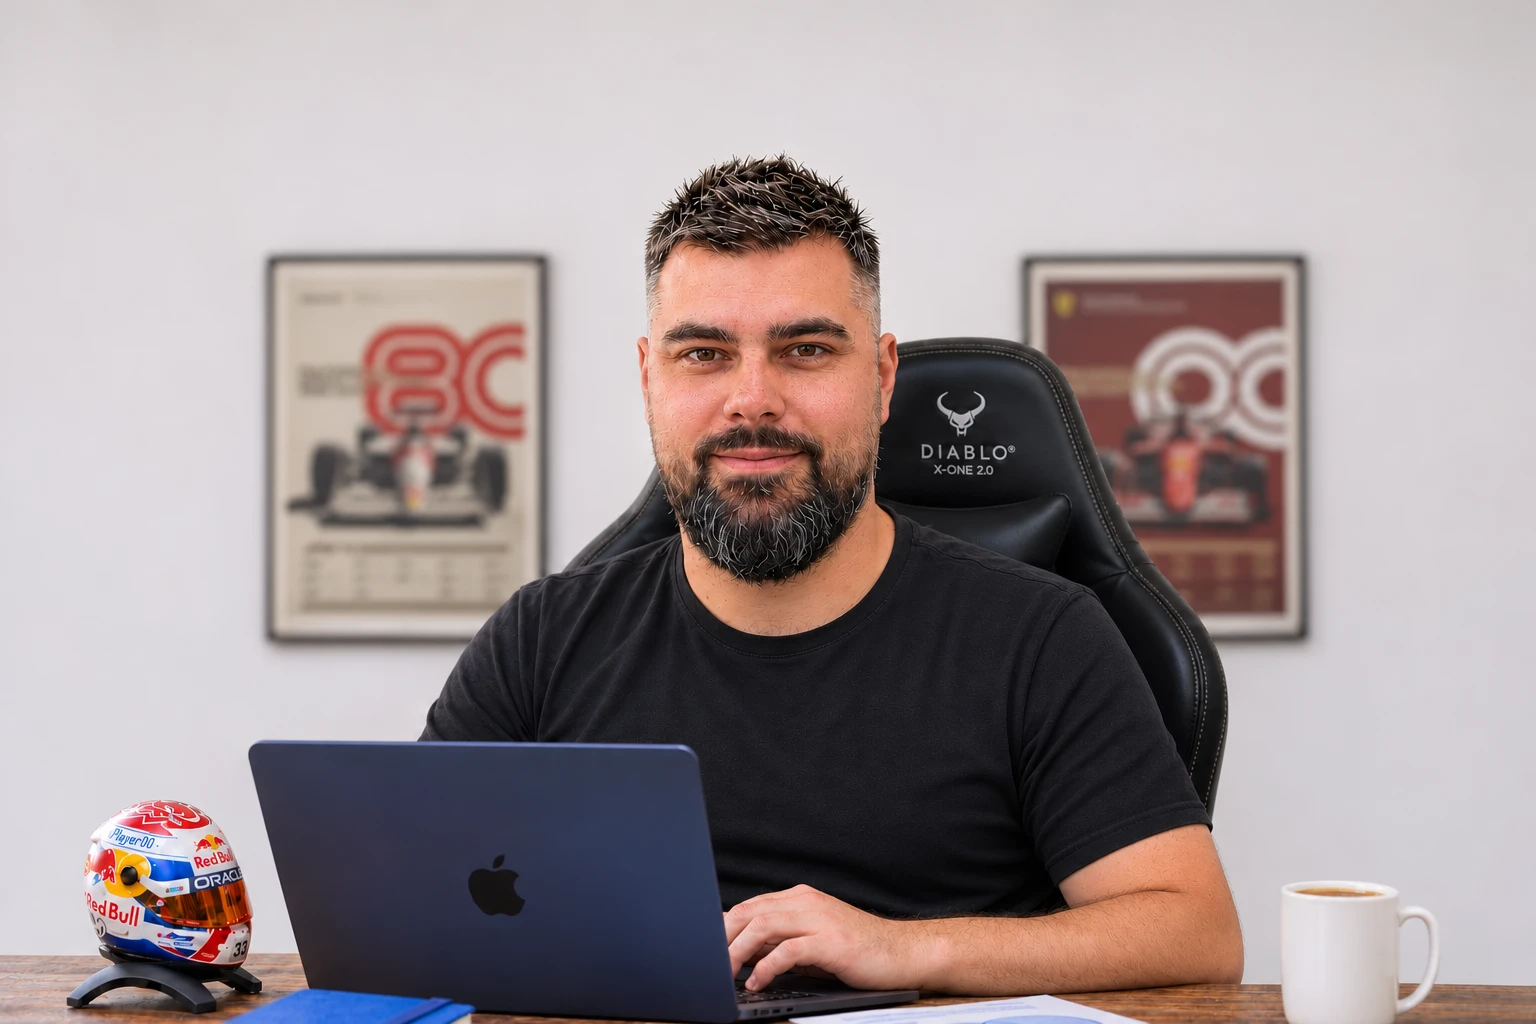
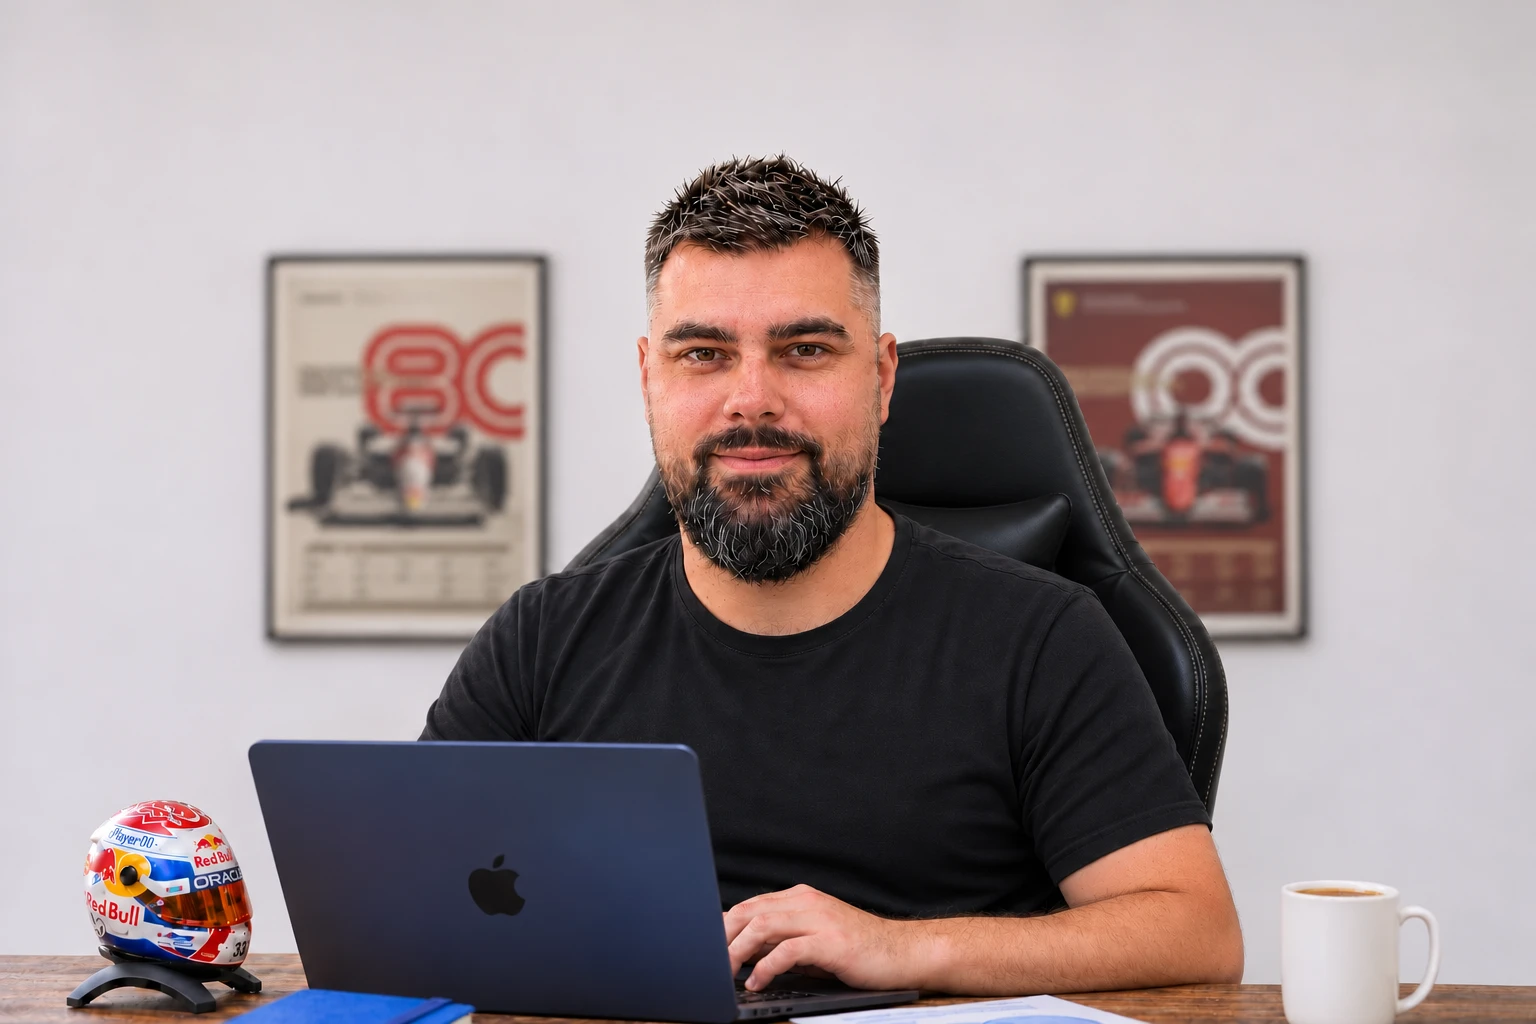
Remove chair branding from personal portrait

diff --git a/personal/index.html b/personal/index.html
@@ -13,7 +13,7 @@
 </head>
 <body>
 <main aria-label="Lukáš Javůrek">
-<div class="portrait-frame"><img class="illustration" src="/personal/hero.webp?v=2217a34490be" alt="Lukáš Javůrek přirozeně sedí za inkoustově modrým MacBookem a dívá se do objektivu. Na stole je model helmy Maxe Verstappena a hrnek kávy, za ním bílá stěna s plakáty F1." width="1536" height="1024" fetchpriority="high"></div>
+<div class="portrait-frame"><img class="illustration" src="/personal/hero.webp?v=6c89568520c0" alt="Lukáš Javůrek přirozeně sedí za inkoustově modrým MacBookem a dívá se do objektivu. Na stole je model helmy Maxe Verstappena a hrnek kávy, za ním bílá stěna s plakáty F1." width="1536" height="1024" fetchpriority="high"></div>
 <h1 class="wordmark" aria-label="Lukáš Javůrek"><span class="wordmark-first" data-text="LUKÁŠ">LUKÁŠ</span><span class="wordmark-last" data-text="JAVŮREK.">JAVŮREK<span class="wordmark-dot" aria-hidden="true">.</span><svg class="wordmark-stroke" viewBox="0 0 180 12" aria-hidden="true"><path d="M3 8C44 2 105 2 177 5"/></svg></span></h1>
 <a class="school-link" href="/kapli/">Rozcestník pro učitele ZŠ Kaplického</a>
 </main>
